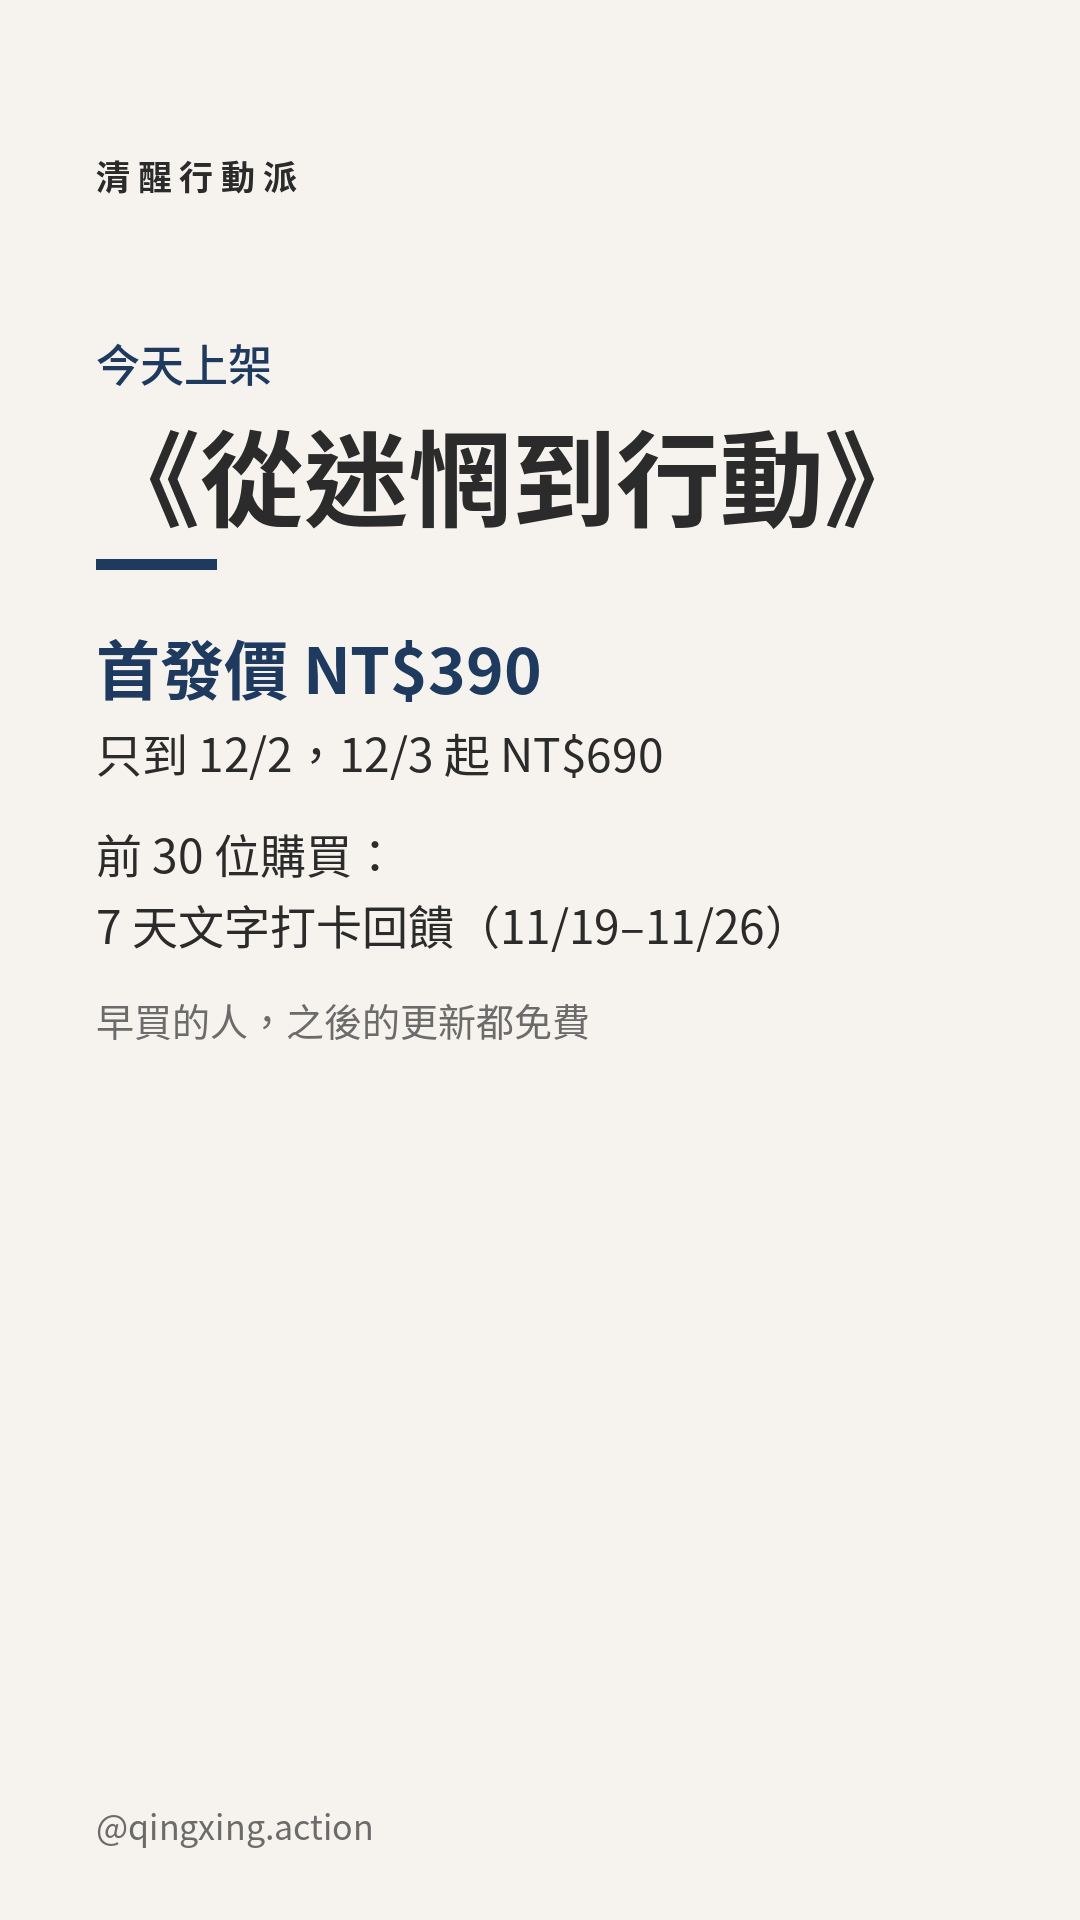
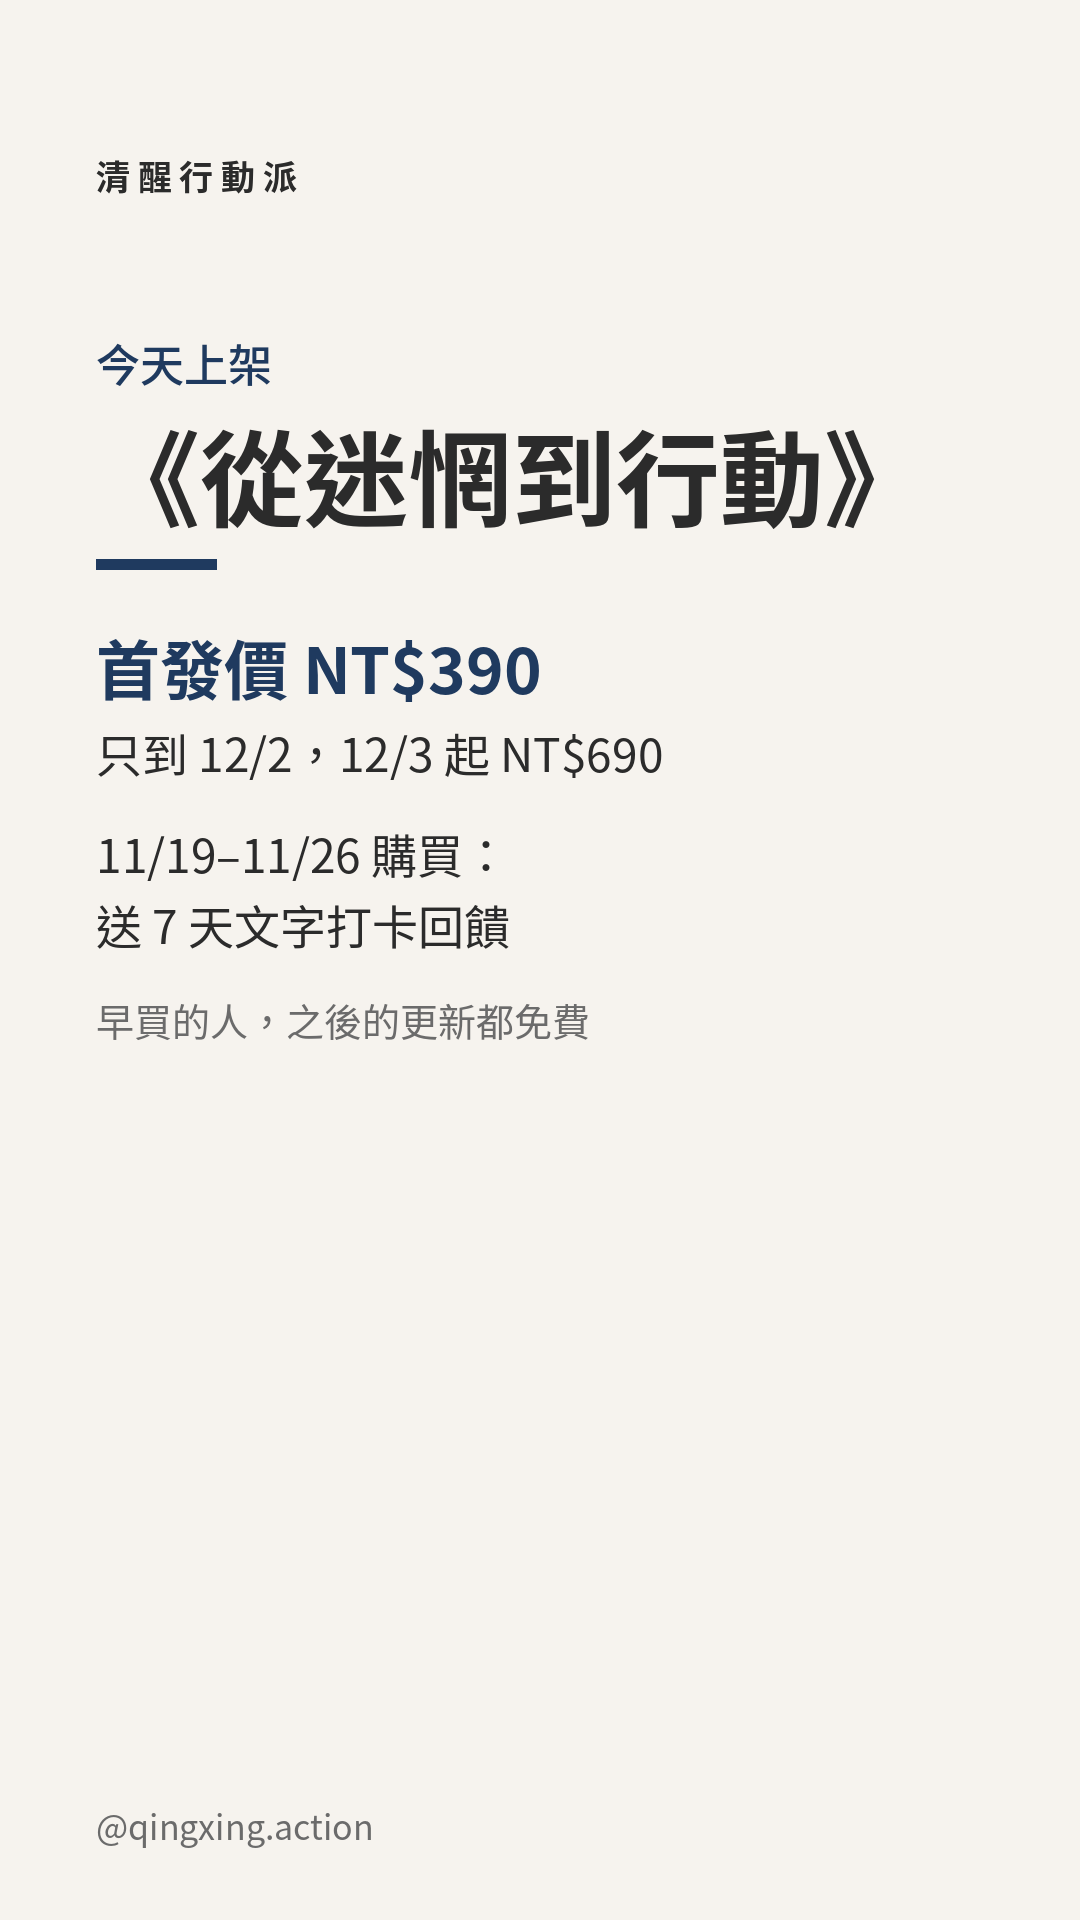
qingxing: 首發 30 名改成首發 7 天（11/19–11/26 購買都送 7 天文字回饋）
Claude-Session: https://claude.ai/code/session_016ub6HVfmbt68BdywDv2i6d

Changed region(s): [[0.0917, 0.4375, 0.7333, 0.5]]

diff --git a/qingxing/index.html b/qingxing/index.html
@@ -367,7 +367,7 @@ footer{margin-top:28px;font-size:12px;color:var(--ink3);text-align:center}
         <label>實收金額 NT$<input name="amount" type="number" min="0" inputmode="numeric" required></label>
         <label>收款平台<select name="channel"><option>Portaly</option><option>Gumroad</option><option>轉帳</option><option>其他</option></select></label>
         <label>來源<select name="source"><option>IG</option><option value="抖音">TikTok</option><option>Email</option><option>推薦</option><option>其他</option></select></label>
-        <label>備註<input name="note" type="text" placeholder="例：首發 30 名"></label>
+        <label>備註<input name="note" type="text" placeholder="例：首發 7 天"></label>
         <div class="full row"><button class="btn" type="submit">送出</button><span class="hint" id="iHint"></span></div>
       </form>
     </div>
@@ -388,7 +388,7 @@ const PRODUCT_ORDER = Object.keys(PRODUCT_COLORS);
 const MILESTONES = [
   ["2026-11-10","IG 每日 20:00 自動發文開始"],
   ["2026-11-19","電子書＋組合在 Portaly 上架（390／690）"],
-  ["2026-11-19","首發 30 名送 7 天回饋（到 11/26）"],
+  ["2026-11-19","首發 7 天（到 11/26）購買送 7 天文字回饋"],
   ["2026-11-29","Day 20 草稿要補截圖與讀者回饋"],
   ["2026-12-01","團體方案開發開始"],
   ["2026-12-03","電子書 V2 更新，電子書 690、Notion 系統 690（組合 1,190）"],
